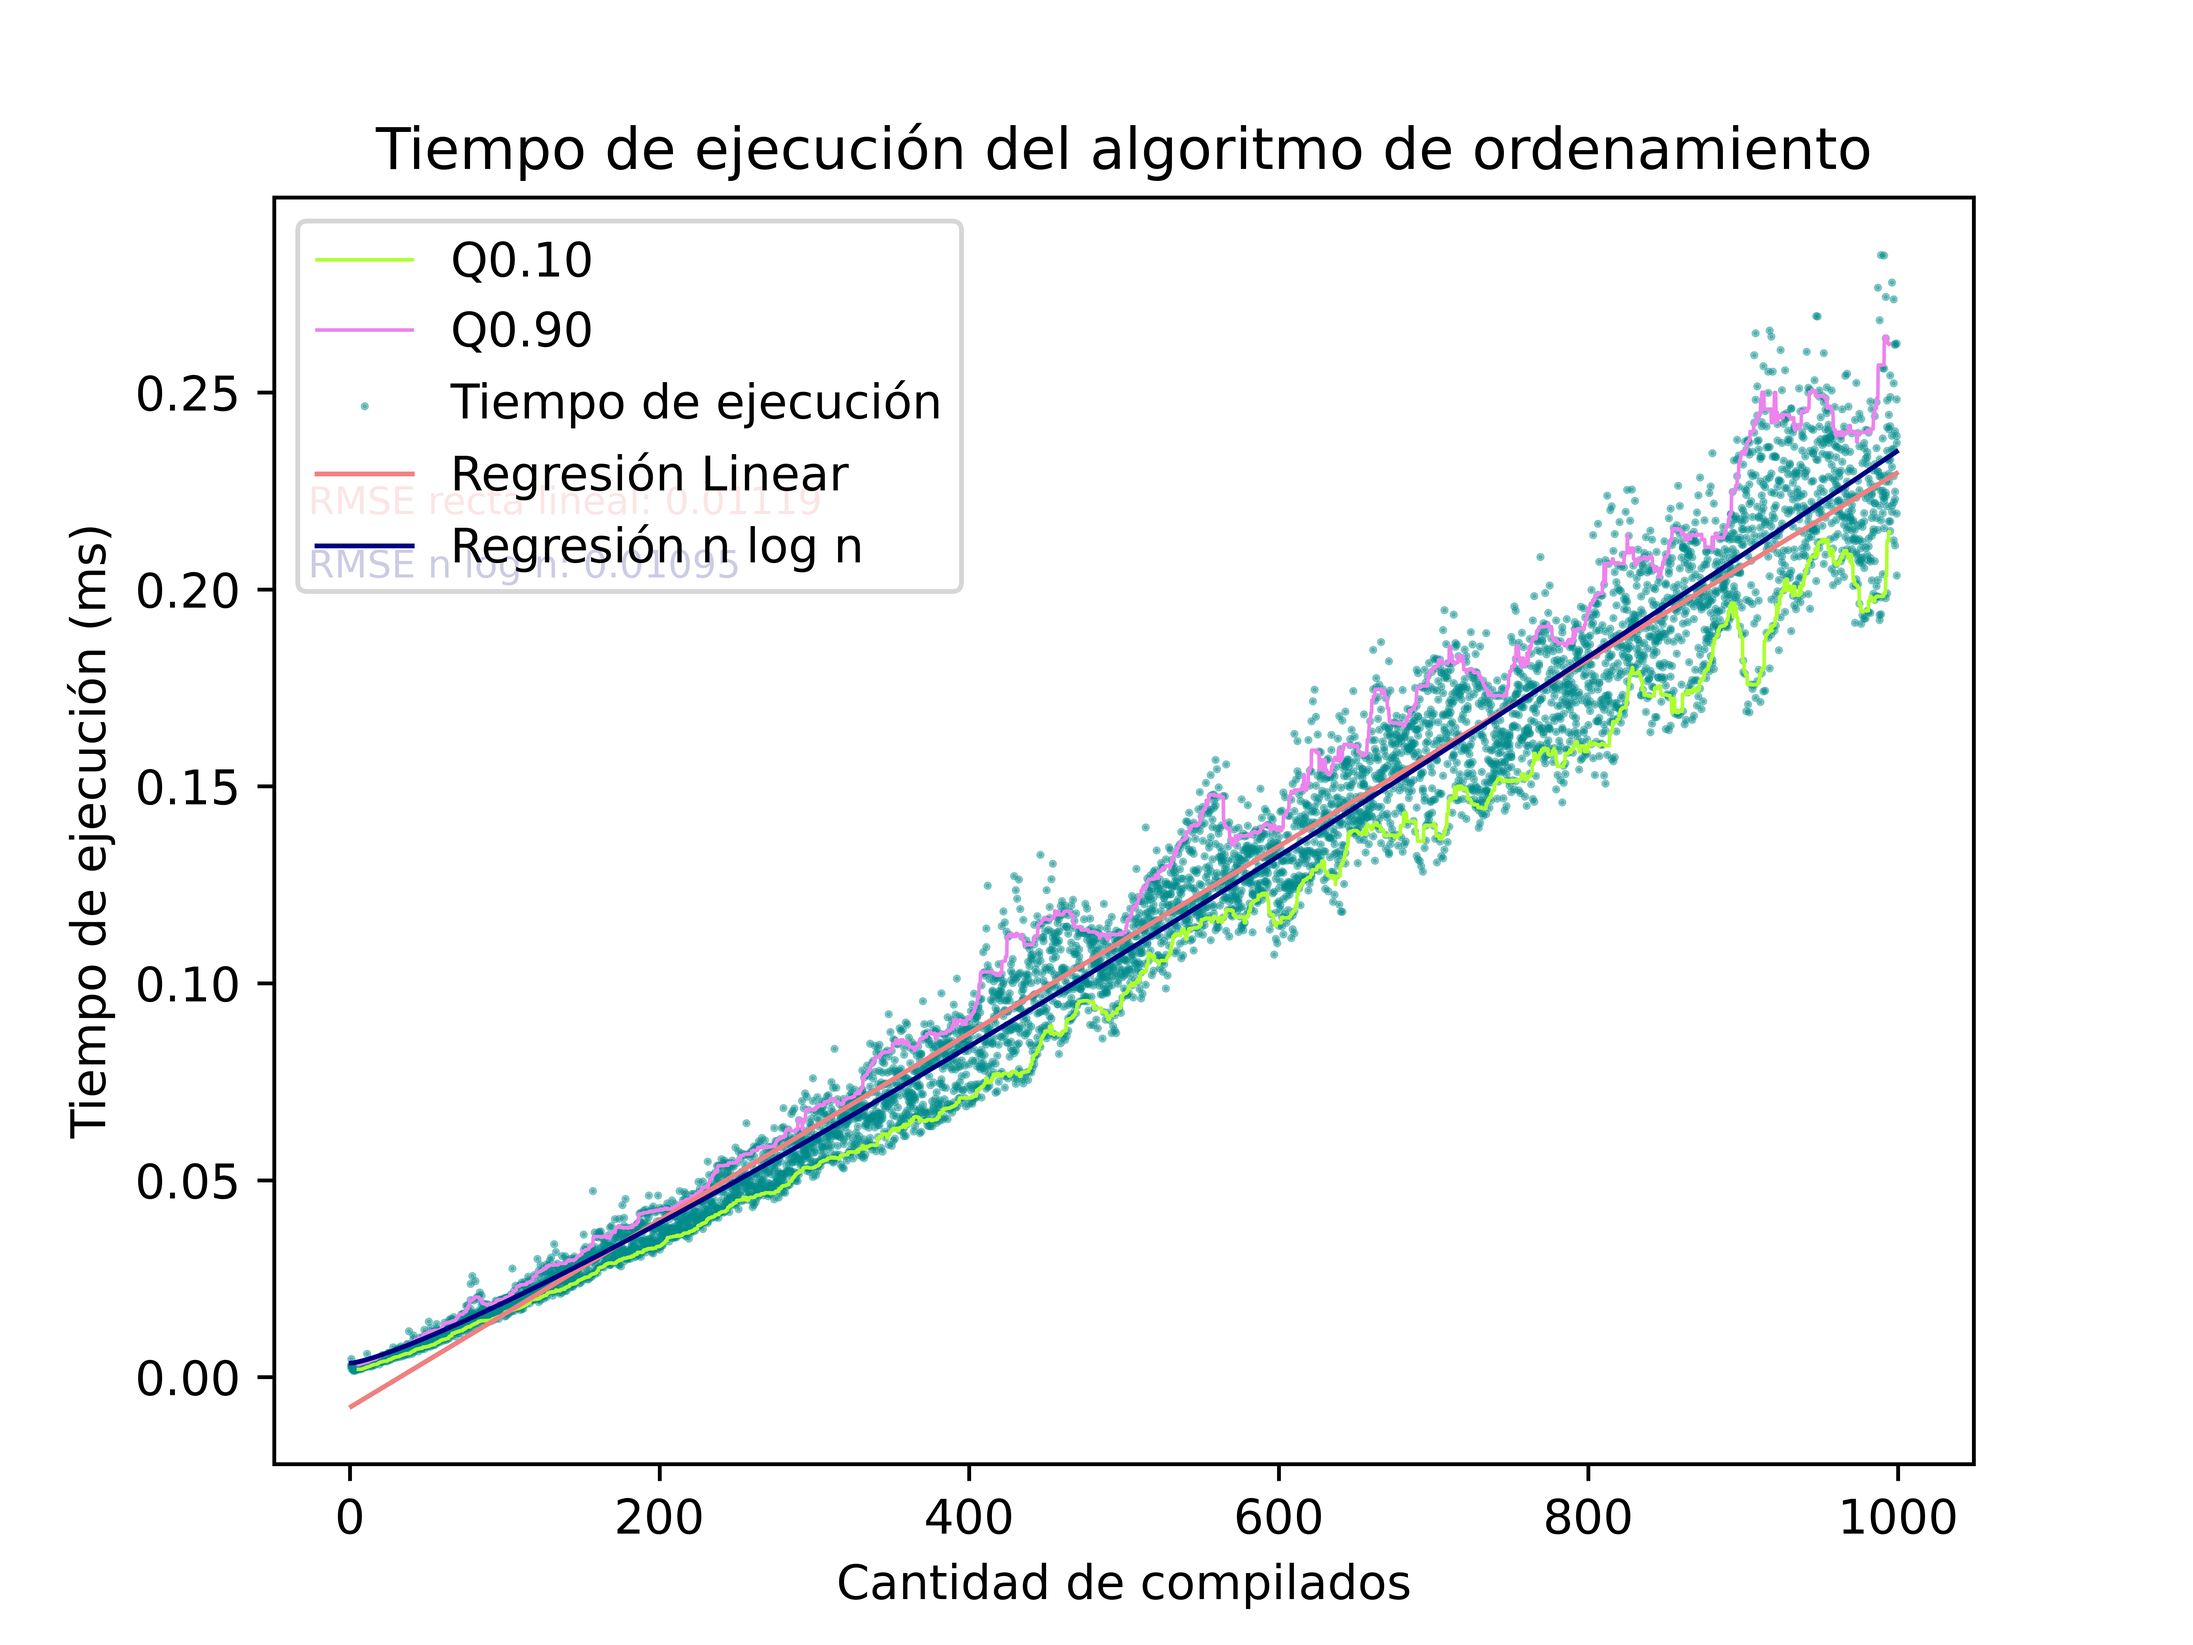
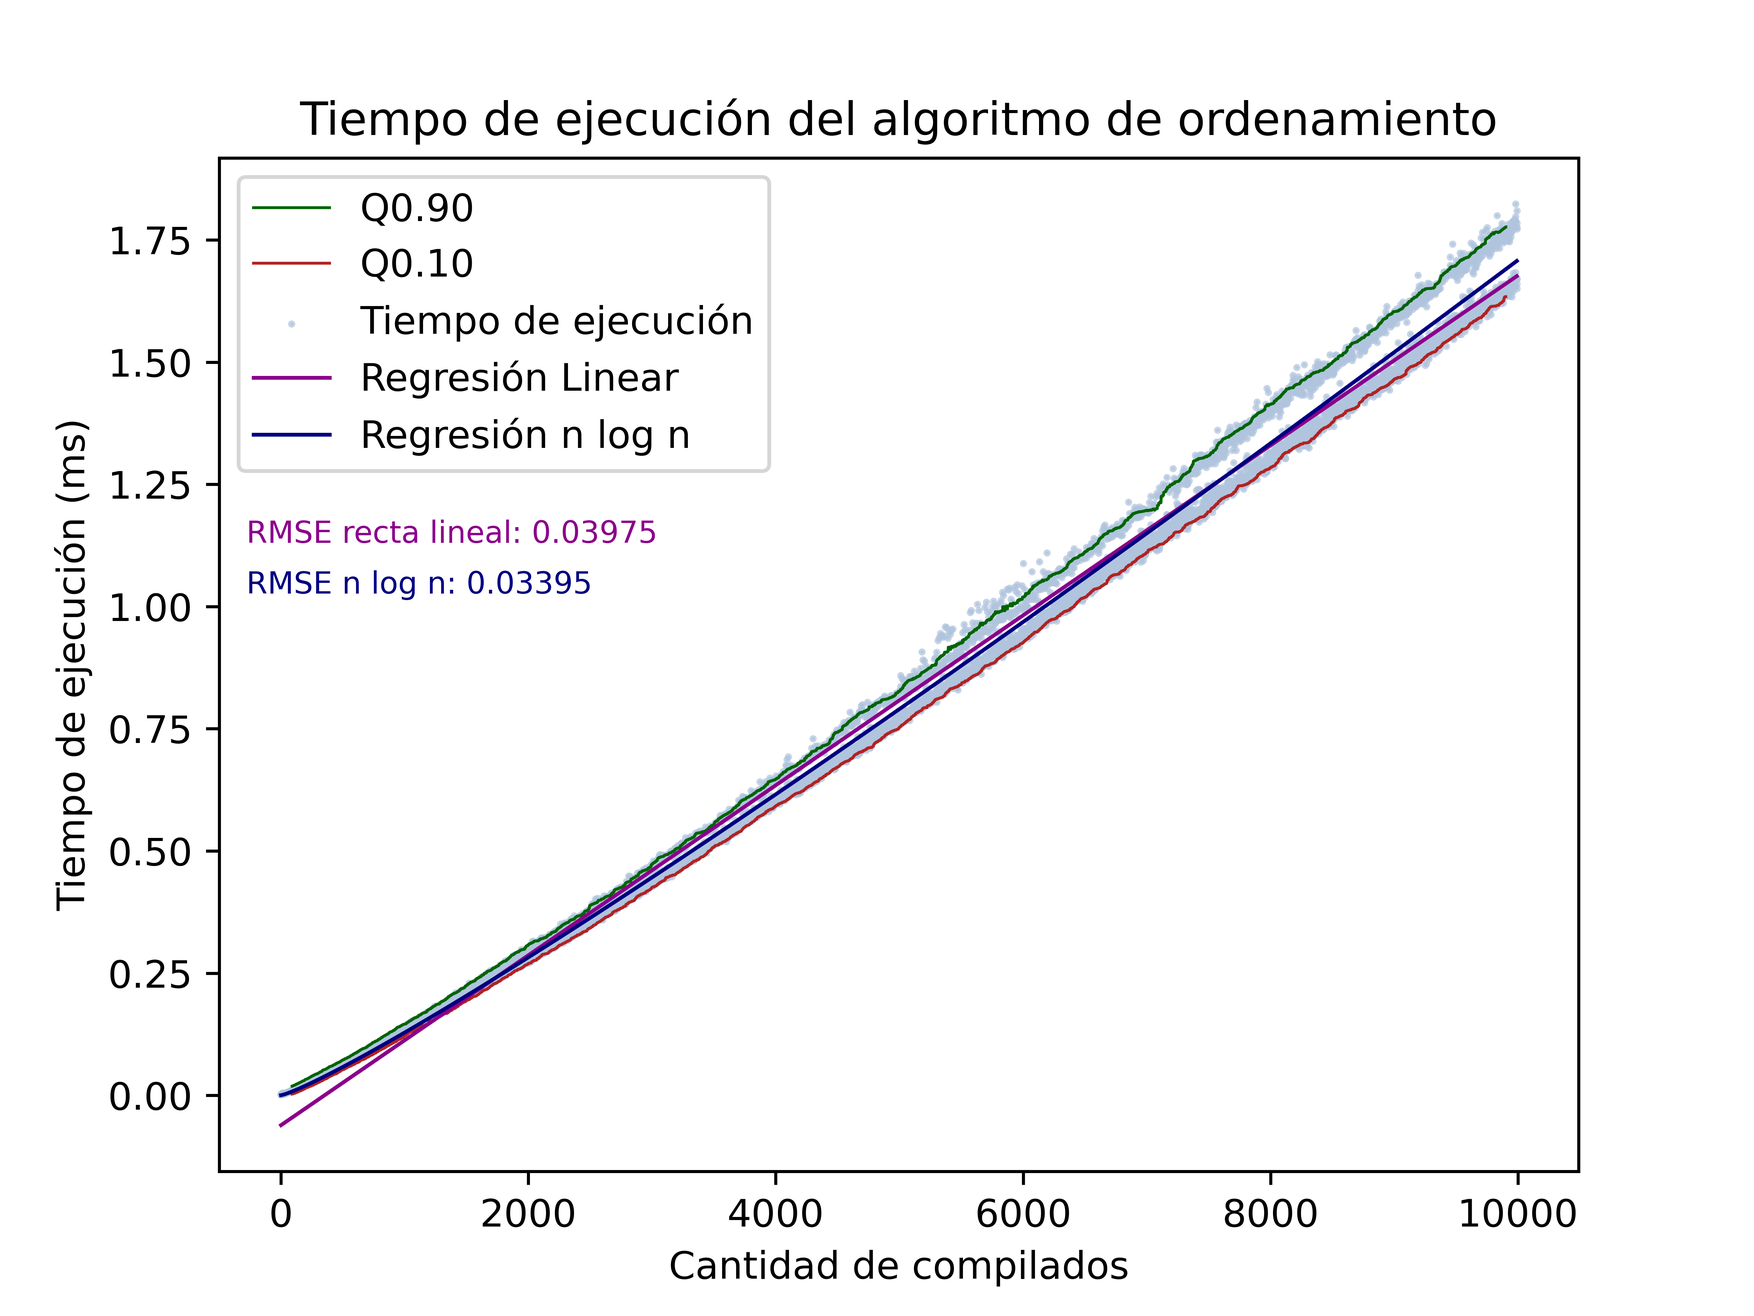
Graficos tiempos valores bajos

diff --git a/tp1/medicion_tiempo.py b/tp1/medicion_tiempo.py
@@ -24,8 +24,8 @@ def generar_compilados_aleatorios(cant_compilados):
 
 
 def main():
-    graficar_simulaciones(1000, 1, "./informe/img/tiempos_valores_bajos_puntos.png", "./informe/img/tiempos_valores_bajos_densidad.png", 6, 10, 60)
-    #graficar_simulaciones(10000, 50, "./informe/img/tiempos_valores_altos_puntos.png", "./informe/img/tiempos_valores_altos_densidad.png", 10, 12, 20)
+    #graficar_simulaciones(1000, 1, "./informe/img/tiempos_valores_bajos_puntos.png", "./informe/img/tiempos_valores_bajos_densidad.png", 20, 20, 100)
+    graficar_simulaciones(10000, 10, "./informe/img/tiempos_valores_altos_puntos.png", "./informe/img/tiempos_valores_altos_densidad.png", 20, 8, 150)
 
 
 def graficar_simulaciones(maximo, intervalos, path_salida_puntos, path_salida_densidad, numero_vueltas, numero_muestras_por_cantidad, group_size):
@@ -76,7 +76,7 @@ def graficar_simulaciones(maximo, intervalos, path_salida_puntos, path_salida_de
     exportar_grafico_puntos(x, y, group_size, path_salida_puntos)
     exportar_grafico_densidad(x, y, path_salida_densidad)
 
-def exportar_grafico_puntos(x, y, group_size, path_salida):
+def exportar_grafico_puntos(x, y, tamanio_grupos_cuantiles, path_salida):
     # Graficar
     plt.figure(dpi=800)
 
@@ -105,39 +105,37 @@ def exportar_grafico_puntos(x, y, group_size, path_salida):
     rmse_funcion_lineal_log = np.sqrt(mean_squared_error(y, logaritmic_regression_line))
     print(f"RMSE para la función lineal logarítmica: {rmse_funcion_lineal_log}")
 
-    # Determine the number of overlapping groups
-    num_groups = len(x) - group_size + 1
+    # Determinar número de grupos
+    num_groupos = len(x) - tamanio_grupos_cuantiles + 1
 
-    # Initialize arrays to store quantiles
-    quantiles_10 = np.zeros(num_groups)
-    quantiles_90 = np.zeros(num_groups)
+    # Inicializar arreglos para almacenar cuantiles
+    cuantiles_10 = np.zeros(num_groupos)
+    cuantiles_90 = np.zeros(num_groupos)
 
-    # Calculate quantiles for each group
-    for i in range(num_groups):
-        group_y = Y[i:i+group_size]
-        quantiles_10[i] = np.percentile(group_y, 10)
-        quantiles_90[i] = np.percentile(group_y, 90)
-       
-    # Determine the center positions for each group
-    group_centers = []
-    for i in range(num_groups):
-        group_center = np.mean(X[i:i+group_size])
-        group_centers.append(group_center)
+    centros_grupos = []
 
-    group_centers = np.array(group_centers)
+    # Calcular cuantiles para cada grupo y el centro de cada uno
+    for i in range(num_groupos):
+        group_y = Y[i:i+tamanio_grupos_cuantiles]
+        cuantiles_10[i] = np.percentile(group_y, 10)
+        cuantiles_90[i] = np.percentile(group_y, 90)
+        centro_grupo = np.mean(X[i:i+tamanio_grupos_cuantiles])
+        centros_grupos.append(centro_grupo)
+
+    centros_grupos = np.array(centros_grupos)
     # Plot the lines
-    plt.plot(group_centers, quantiles_10, label='Q0.10', color="greenyellow", linewidth=0.75)
-    plt.plot(group_centers, quantiles_90, label='Q0.90', color="violet", linewidth=0.75)
+    plt.plot(centros_grupos, cuantiles_90, label='Q0.90', color="darkgreen", linewidth=0.75)
+    plt.plot(centros_grupos, cuantiles_10, label='Q0.10', color="firebrick", linewidth=0.75)
 
     plt.scatter(
-        x, y, label="Tiempo de ejecución", marker="o", color="darkcyan", alpha=0.5, s=0.5
+        x, y, label="Tiempo de ejecución", marker="o", color="lightsteelblue", alpha=0.7, s=0.8
     )
     plt.plot(
         x,
         linear_regression_line,
         label="Regresión Linear",
         linestyle="-",
-        color="lightcoral",
+        color="darkmagenta",
         linewidth=1,
     )
     plt.plot(
@@ -152,15 +150,15 @@ def exportar_grafico_puntos(x, y, group_size, path_salida):
     # Anotamos el rmse de cada regresión
     plt.annotate(
         f"RMSE recta lineal: {rmse_recta_lineal:.5f}",
-        (0.02, 0.75),
+        (0.02, 0.62),
         xycoords="axes fraction",
         fontsize=8,
-        color="lightcoral",
+        color="darkmagenta",
     )
 
     plt.annotate(
         f"RMSE n log n: {rmse_funcion_lineal_log:.5f}",
-        (0.02, 0.70),
+        (0.02, 0.57),
         xycoords="axes fraction",
         fontsize=8,
         color="navy",
@@ -188,13 +186,14 @@ def exportar_grafico_densidad(x, y, path_salida):
     zi = k(np.vstack([xi.flatten(), yi.flatten()]))
     
     # Make the plot
-    plt.pcolormesh(xi, yi, zi.reshape(xi.shape), shading='auto')
+    c = plt.pcolormesh(xi, yi, zi.reshape(xi.shape), shading='auto', cmap='Blues')
+    plt.colorbar(c, format='')
 
     # Etiquetas y leyenda
     plt.xlabel("Cantidad de compilados")
     plt.ylabel("Tiempo de ejecución (ms)")
     plt.legend()
-    plt.title("Tiempo de ejecución del algoritmo de ordenamiento")
+    plt.title("Densidad de mediciones de tiempo de ejecución del algoritmo de ordenamiento")
     plt.savefig(path_salida)
 
 
